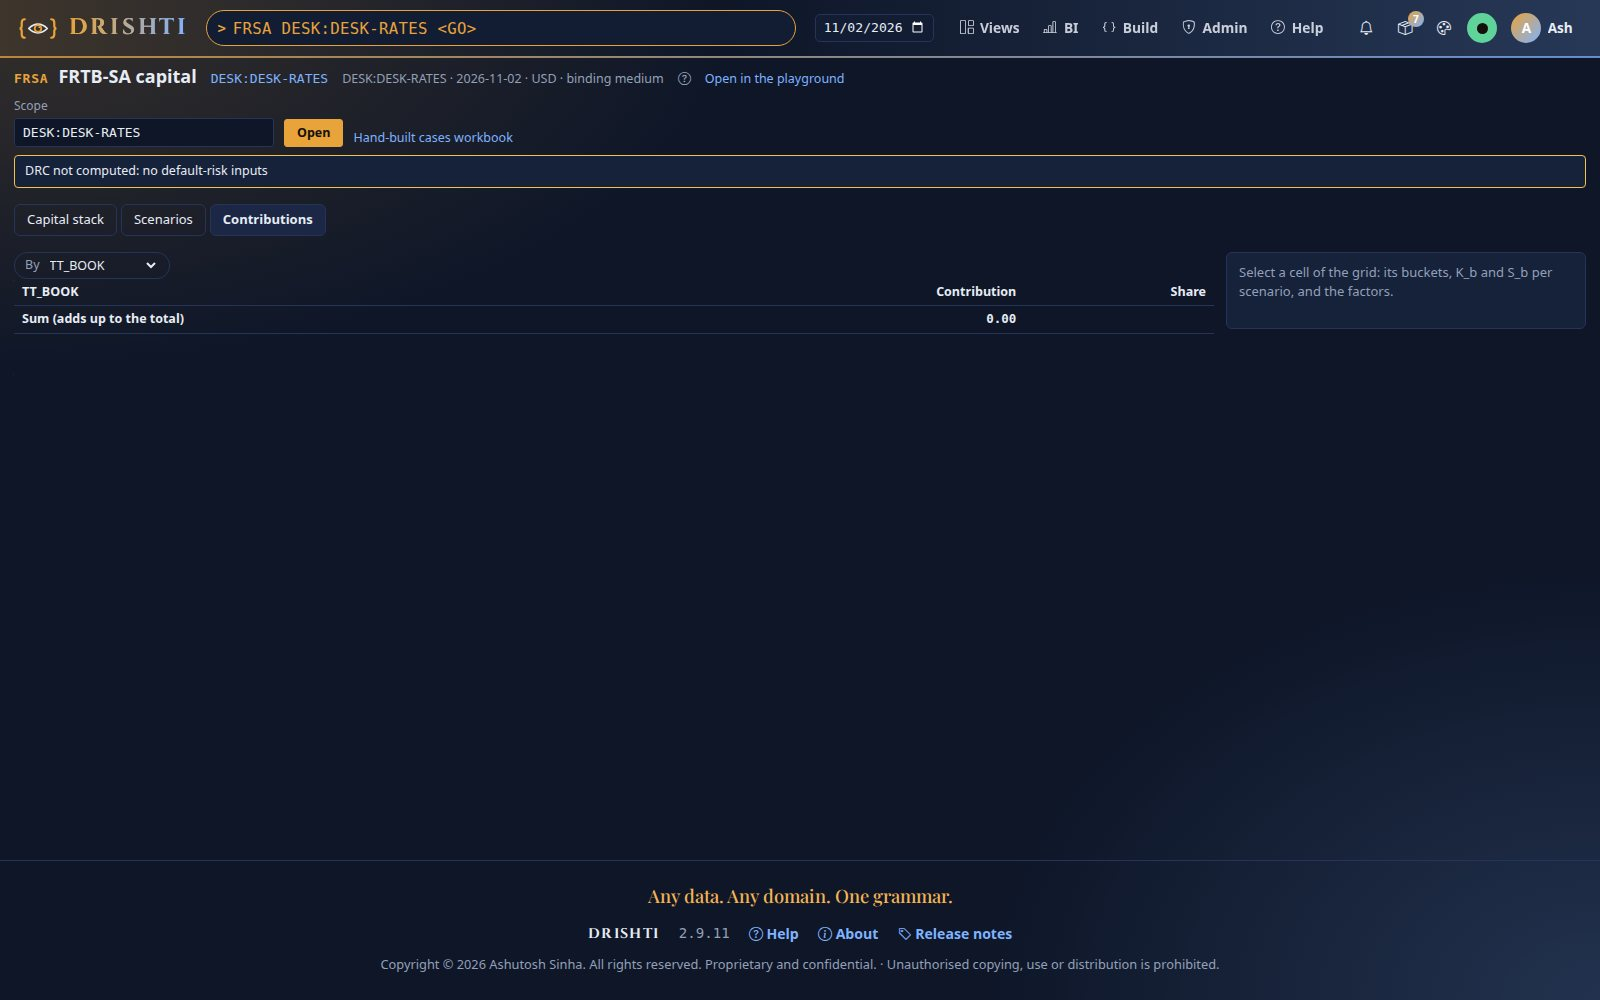
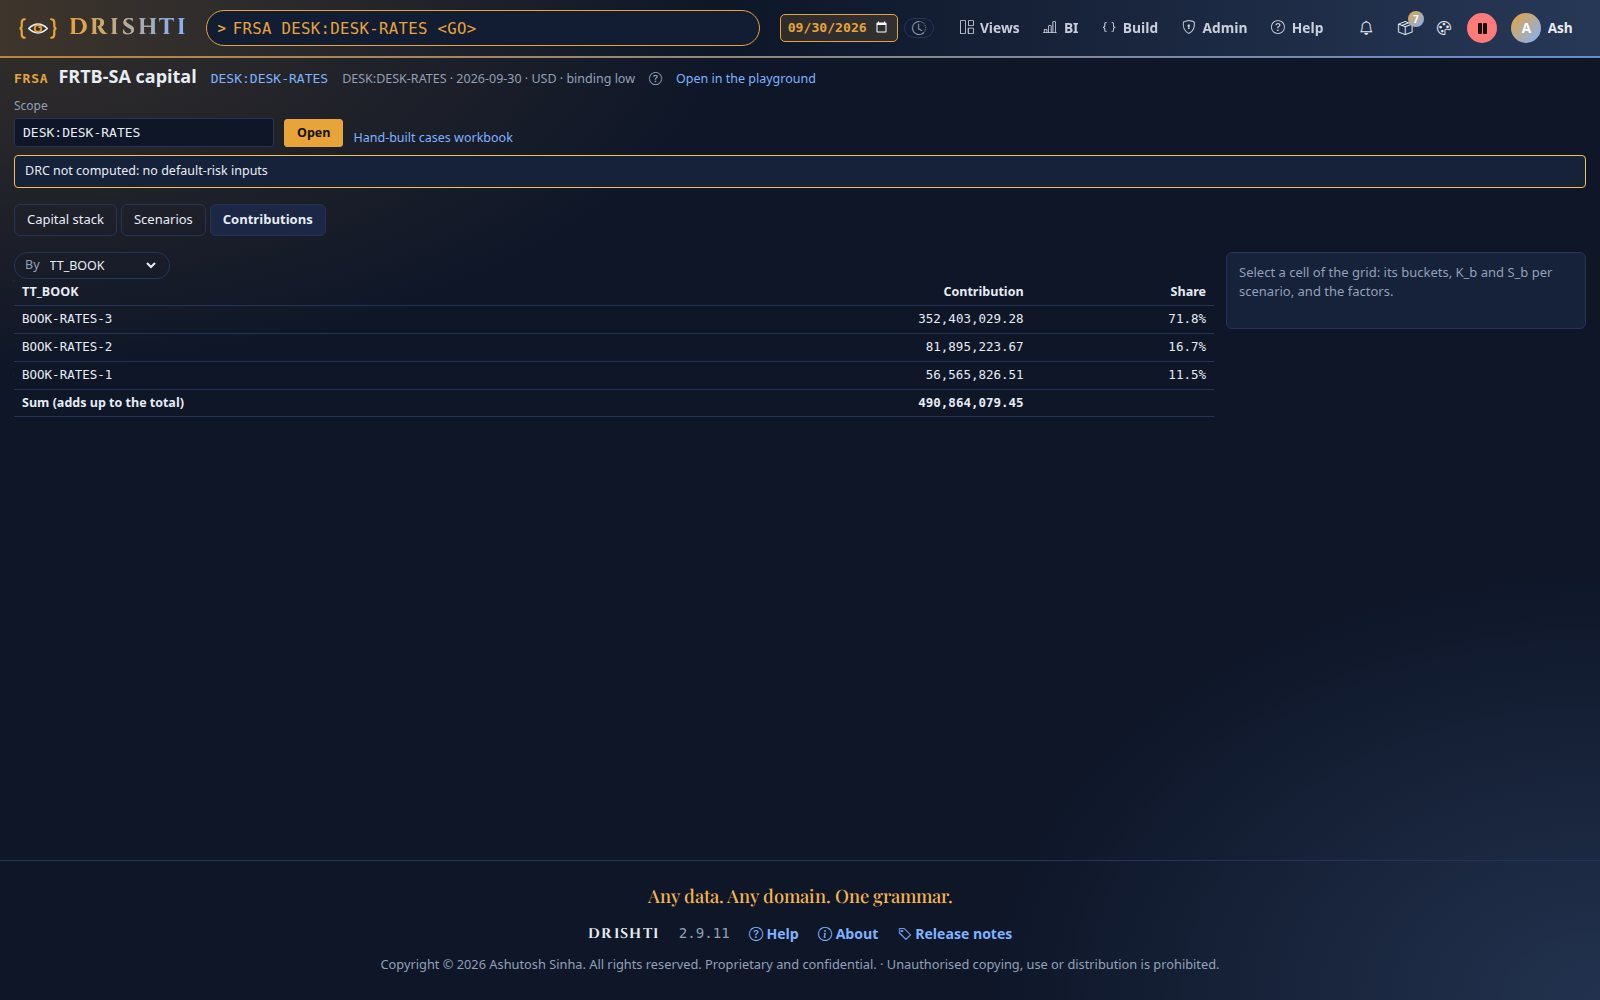
In-memory lake: the example connector keeps domain empty (the pack's template added domain: news, so news-store looked under mem://news/news and every news page read no source holds); Admin Health draws a memory store's gauge (it failed with 500 when the lake was on); the SIMM screen's netting-set l

diff --git a/drishti-console/web/templates/admin/_health_busy.html b/drishti-console/web/templates/admin/_health_busy.html
@@ -33,6 +33,7 @@
       {%- if g.id == 'memory' -%}{{ (g.value * 100) | round(0) | int }}% · {{ (g.usedBytes / 1073741824) | round(1) }} of {{ (g.maxBytes / 1073741824) | round(1) }} GB
       {%- elif g.id == 'loads' -%}{{ g.running }} of {{ g.slots }} slots{% if g.engines %} · {% for x in g.engines %}{{ x.engine }} {{ x.running }}/{{ x.threads }}{{ ', ' if not loop.last }}{% endfor %}{% endif %}
       {%- elif g.id == 'requests' -%}{{ g.busy }} of {{ g.handlers }} · queue {{ g.queue }}
+      {%- elif (g.id or '').startswith('memory-store:') -%}{{ (g.value * 100) | round(0) | int }}% · {{ ((g.usedBytes or 0) / 1048576) | round(1) }} of {{ ((g.maxBytes or 0) / 1048576) | round(1) }} MB
       {%- else -%}{% if g.totalBytes %}{{ ((g.totalBytes - g.freeBytes) / 1073741824) | round(0) | int }} of {{ (g.totalBytes / 1073741824) | round(0) | int }} GB · {% endif %}{{ (g.freeBytes / 1073741824) | round(0) | int }} GB free
       {%- endif -%}</span></div>
     <div class="busy-bar" role="img" aria-label="{{ g.label }}: {{ g.words }}"><i class="{{ g.state }}" data-busy-w="{{ ([g.value, 1] | min * 100) | round(1) }}"></i>

diff --git a/drishti-console/web/static/js/simm.js b/drishti-console/web/static/js/simm.js
@@ -92,6 +92,8 @@
   function sets() {
     var q = new URLSearchParams();
     if (cpty) { q.set("counterparty", cpty); }
+    var asOf = new URLSearchParams(window.location.search).get("asOf");   // the list follows the page's date, as the breakdown does
+    if (asOf) { q.set("asOf", asOf); }
     getJson("/api/simm/netting-sets?" + q.toString()).then(function (l) {
       var h = '<thead><tr><th class="l">Netting set</th><th class="l">Counterparty</th><th>IM collect</th><th>IM post</th><th class="l">Version</th><th class="l">Status</th><th>Their call</th></tr></thead><tbody>';
       l.rows.forEach(function (r) {

diff --git a/drishti-console/tests/test_busy.py b/drishti-console/tests/test_busy.py
@@ -96,7 +96,10 @@ HEALTH_BUSY = {"enabled": True, "state": "new heavy work waits", "waitingSince":
                           {"id": "requests", "label": "Request handlers busy", "value": 0.82, "warn": 0.75, "refuse": 0.9, "state": "warn",
                            "words": "getting full", "busy": 164, "handlers": 200, "queue": 6, "note": "warn at 75%"},
                           {"id": "disk", "label": "Disk used", "value": 0.92, "warn": 0.96, "refuse": 0.98, "state": "ok", "words": "fine",
-                           "freeBytes": 44023414784, "totalBytes": 536870912000, "note": "warn under 20 GB free"}],
+                           "freeBytes": 44023414784, "totalBytes": 536870912000, "note": "warn under 20 GB free"},
+                          # a memory store of the in-memory lake (its use against its own cap; no free or total disk bytes)
+                          {"id": "memory-store:news", "label": "Memory store news (off the heap)", "value": 0.004, "warn": 0.85, "refuse": 1.0,
+                           "state": "ok", "words": "fine", "usedBytes": 1048576, "maxBytes": 268435456, "note": "held in memory only"}],
                "refusals": {"last15Minutes": 23, "people": 4, "sinceStart": 40, "rows": [
                    {"at": "2026-11-02T10:42:18Z", "who": "k.mehta", "what": "Sign in", "why": "memory 93%", "code": "DRS-9501", "retryAfterSeconds": 45}]}}
 
@@ -116,6 +119,7 @@ def test_health_draws_the_busy_protection_card_and_sends_the_override(client, ba
     page = client.get("/admin/health").text
     assert "data-health-busy" in page and "Busy protection" in page and "new heavy work waits" in page
     assert 'data-busy-gauge="memory"' in page and "93% · 6.5 of 7.0 GB" in page and "3 of 3 slots" in page and "164 of 200 · queue 6" in page
+    assert 'data-busy-gauge="memory-store:news"' in page and "0% · 1.0 of 256.0 MB" in page
     assert "k.mehta" in page and "DRS-9501" in page and "23 in the last 15 minutes" in page
     assert "data-busy-override" in page and "Hold all new heavy work" in page and "/static/js/admin-busy.js" in page
     assert 'style="' not in page.split("data-health-busy", 1)[1].split("</section>", 1)[0]      # no inline style (the page's policy)

diff --git a/drishti-console/tests/test_var_explorer_browser.py b/drishti-console/tests/test_var_explorer_browser.py
@@ -346,6 +346,9 @@ def test_construct_your_basket_sheet_paste_checks_save_reopen_edit_and_delete(st
     kept = pg.evaluate("(id) => fetch('/api/var/baskets/' + id).then(r => r.json())", basket)
     assert kept["sheet"]["TRD"][:2] == trades[:2] and kept["version"] == 1
     wait(pg, "document.querySelectorAll('[data-vx-adhoc] [data-vx-edit=\"BASKET:%s\"]').length > 0" % basket)
+    # the saved basket's row shows its name; its buttons sit after the name, shown on hover (never drawn over it)
+    row = pg.locator(".vx-adhoc-row", has=pg.locator(f'[data-vx-edit="BASKET:{basket}"]'))
+    assert row.locator(".lbl").is_visible() and "rates-mix" in row.locator(".lbl").inner_text()
     shot(pg, "basket-saved")
     # captured, and the capture reopened with its numbers
     pg.locator('.vx-tab[data-tab="captures"]').click()
@@ -385,10 +388,12 @@ def test_construct_your_basket_sheet_paste_checks_save_reopen_edit_and_delete(st
     wait(pg, "window.VarExplorer && window.VarExplorer.state.head && window.VarBasket.parts() === 5", 60)
     assert pg.locator("[data-vx-basket]").is_hidden()                       # kept, not opened: only the link opens it
     # a portfolio is the bank's: Edit a copy opens its parts as your own unsaved basket
+    pg.locator(".vx-adhoc-row", has=pg.locator('[data-vx-edit="PORT:PF-USD-RATES"]')).hover()   # its buttons show on hover
     pg.locator('[data-vx-adhoc] [data-vx-edit="PORT:PF-USD-RATES"]').click()
     wait(pg, "window.VarBasket.state.copyOf === 'PF-USD-RATES' && !document.querySelector('[data-vx-basket]').hidden")
     assert "your own basket" in pg.locator("[data-vb-save]").inner_text()
     # Delete, through the confirm dialog
+    pg.locator(".vx-adhoc-row", has=pg.locator(f'[data-vx-delete="{basket}"]')).hover()
     pg.locator(f'[data-vx-adhoc] [data-vx-delete="{basket}"]').click()
     pg.locator("[data-sd-dialog]").wait_for(state="visible")
     pg.locator("[data-sd-yes]").click()

diff --git a/drishti-console/tests/test_page_widths_browser.py b/drishti-console/tests/test_page_widths_browser.py
@@ -54,7 +54,13 @@ def _pages(views: list[str] | None = None) -> list[str]:
              "/admin/loads", f"/admin/packs/{PACK}/loads", f"/admin/packs/{PACK}", "/admin/connectors", "/admin/connectors/trade-endur", "/admin/artifacts", "/admin/collab", "/admin/embedding", "/inbox", "/inbox?tab=mentions&unread=1", f"/share/{NO_SHARE}",
              f"/?from=/v/{first}", "/?from=/admin/loads"]
     catalogue = yaml.safe_load((CONSOLE / "config" / "help.yaml").read_text())
-    pages += [f"/help/{g['slug']}" for cat in catalogue["categories"] for g in cat.get("guides", [])]
+    # an engine off as shipped (config/engines/<engine>.yaml, e.g. the in-memory lake) takes its Help pages away (404): not read here
+    off = set()
+    for e in yaml.safe_load((CONSOLE / "config" / "engines.yaml").read_text()).get("engines", []):
+        f = CONSOLE.parent / "config" / "engines" / str(e.get("file", ""))
+        if f.is_file() and re.search(r"enabled:\s*\$\{[A-Z_]+:false\}", f.read_text()):
+            off.update(e.get("help") or [])
+    pages += [f"/help/{g['slug']}" for cat in catalogue["categories"] for g in cat.get("guides", []) if g["slug"] not in off]
     # last, a view at a past business date and then as known at a time: the top bar's widest state
     pages += [f"/asof?d=2026-09-29&next=/v/{first}", f"/asof?d=2026-09-29&k=2026-09-29T10:00&next=/v/{first}"]
     return pages

diff --git a/tools/docs/shots/t31.py b/tools/docs/shots/t31.py
@@ -85,23 +85,23 @@ def lakes(c: Ctx):
 
 @shot("03-news.jpg")
 def news(c: Ctx):
-    _open(c, "/go?q=NEWS+Apple", 4000)
+    _open(c, "/v/news/NEWS-Apple", 4000)
     c.save("03-news.jpg")
 
 
 @shot("04-quote.jpg")
 def quote(c: Ctx):
-    _open(c, "/go?q=QUOTE+AAPL", 4000)
+    _open(c, "/v/quote/QUOTE-AAPL", 4000)
     c.save("04-quote.jpg")
 
 
 @shot("05-data.jpg")
 def data(c: Ctx):
-    _open(c, "/data", 4000)
+    _open(c, "/data?find=news", 4000)
     c.save("05-data.jpg")
 
 
 @shot("06-health.jpg")
 def health(c: Ctx):
     _open(c, "/admin/health", 4000)
-    c.save("06-health.jpg")
+    c.save("06-health.jpg", locator="[data-health-busy]")          # the busy protection card with the store's gauge

diff --git a/docs/tutorials/31-news-in-memory-only.md b/docs/tutorials/31-news-in-memory-only.md
@@ -51,6 +51,7 @@ plugin: delta
 kinds: [news-topic, listed-company, news, quote]
 settings:
   root: mem://news
+  domain: ""          # the tables sit at mem://news/<kind>: without it the pack's template adds domain: news
 ```
 
 **The UI.** Admin → Connectors → `news-store` shows the same text and its origin *your file*. Until the store exists the connector's health
@@ -150,9 +151,9 @@ python3 tools/drishti.py view get listed-company/CO-AAPL
 
 **You should see** the same pages as on the disk lake, and the four datasets in the Data view.
 
-![NEWS Apple read from memory](img/t31/03-news.jpg)
+![The Apple headlines (NEWS-Apple) read from memory](img/t31/03-news.jpg)
 
-![QUOTE AAPL read from memory](img/t31/04-quote.jpg)
+![The Apple quote (QUOTE-AAPL) read from memory](img/t31/04-quote.jpg)
 
 ![The Data view: the news datasets, a day downloaded from memory](img/t31/05-data.jpg)
 
@@ -210,7 +211,7 @@ Put `max-mb: 256` back.
 
 **You should see** with `max-mb: 1` an eviction or a refused write in `lake memory status` and Admin → Health turn amber; with 256 back, green again.
 
-![Admin → Health: the in-memory lake's checks](img/t31/06-health.jpg)
+![Admin → Health, Busy protection: the news store's gauge beside the server's own](img/t31/06-health.jpg)
 
 ## Step 8 · Go back to the disk lake
 

diff --git a/CHANGELOG.md b/CHANGELOG.md
@@ -26,6 +26,10 @@
   swap (they had been added by hand, so `--check` failed); `testdata.yaml` regenerated. Tutorials 30 to 32 gain their pictures
   (`screenshots.py --guide t30`, `t31`, `t32`), what you should see at every step and their next steps; the tutorials card counts
   past thirty. FRSA's capital stack draws each bar to its length (the width was a style attribute, which the console's CSP blocks).
+  The SIMM screen's list of netting sets follows the page's date (`asOf`), as its breakdown did. Admin → Health no longer fails (500)
+  when the in-memory lake is on: a memory store's gauge reads its use against its cap. The example memory connector
+  (`config/connectors.examples/memory/news-store.yaml`) says `domain: ""`: without it the pack's template added `domain: news` and the
+  connector looked under `mem://news/news`, so every news page read *no source holds*.
 - **Fixed: the stress window page read the current window a month late on a demo lake.** `lake demo` moved a stress scenario set's
   window and days with the business dates (HS-STRESS-2008 became 2008-08-01 to 2009-07-31 on a lake ending 2026-11-02) while the long
   history's days stay as they are; a stress set's period of history now stays 2008-07-01 to 2009-06-30, as VAR_GUIDE.md section 18.9

diff --git a/docs/guides/IN_MEMORY_LAKE_GUIDE.md b/docs/guides/IN_MEMORY_LAKE_GUIDE.md
@@ -64,6 +64,7 @@ plugin: delta
 kinds: [news-topic, listed-company, news, quote]
 settings:
   root: mem://news
+  domain: ""          # the tables sit at mem://news/<kind>: without it the pack's template adds domain: news
 ```
 
 The store and its tables, in the in-memory lake's own file `config/engines/memory-lake.yaml` (with its switch,
